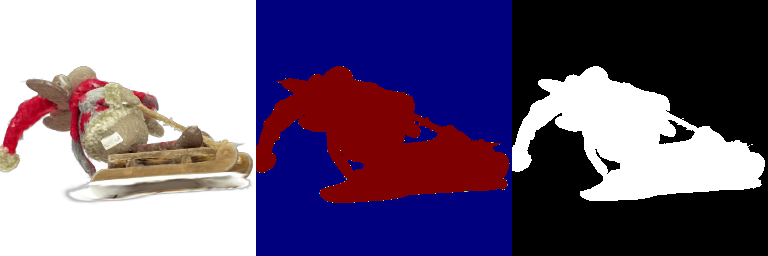
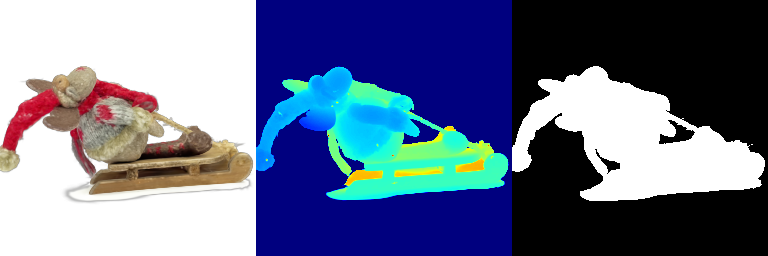
m

Changed region(s): [[0.0, 0.25, 0.6875, 0.8125], [0.0, 0.5625, 0.0312, 0.6562]]

diff --git a/assignment4/Q1/model.py b/assignment4/Q1/model.py
@@ -410,6 +410,7 @@ class Scene:
         # Transform the z component into camera coordinates
         means_camera = camera.transform_points(self.gaussians.means)
         z_vals = means_camera[:, 2]
+        z_vals = 1/z_vals
         print(f"Z vals: {z_vals}")
         print(f"Original Shape: {z_vals.shape}")
         print(f"Min: {z_vals.min()} | Max: {z_vals.max()}")
@@ -619,9 +620,7 @@ class Scene:
 
         ### YOUR CODE HERE ###
         # HINT: Can you implement an equation inspired by the equation for colour?
-        z_vals = (z_vals - torch.min(z_vals)) / (torch.max(z_vals) - torch.min(z_vals)) * 255
         depth = z_vals * alphas * transmittance
-        # print(depth)
         depth = torch.sum(depth, dim=0)   # (H, W, 1)
 
         ### YOUR CODE HERE ###

diff --git a/assignment4/Q1/render.py b/assignment4/Q1/render.py
@@ -15,7 +15,7 @@ def create_renders(args):
     dim = args.img_dim
     img_size = (dim, dim)
 
-    num_views = 3
+    num_views = 1
     azims = np.linspace(-180, 180, num_views)
 
     debug_root = os.path.join(args.out_path, "q1_render")
